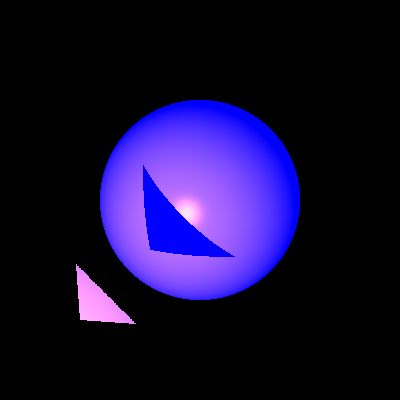
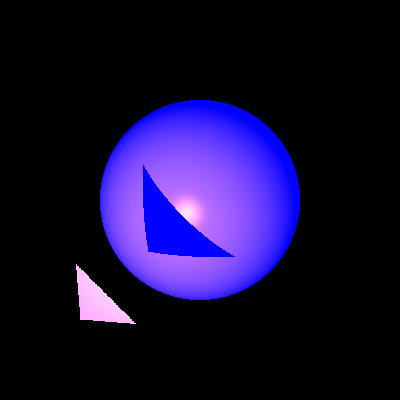
7.01.NF

Changed region(s): [[0.18, 0.66, 0.33, 0.81], [0.36, 0.54, 0.39, 0.63], [0.39, 0.63, 0.45, 0.66]]

diff --git a/unitTests/renderer/ShadowTests.java b/unitTests/renderer/ShadowTests.java
@@ -13,94 +13,94 @@ import scene.Scene;
 /** Testing basic shadows
  * @author Dan */
 public class ShadowTests {
-   private Intersectable sphere     = new Sphere(new Point(0, 0, -200), 60d)                                         //
-      .setEmission(new Color(BLUE))                                                                                  //
-      .setMaterial(new Material().setKd(0.5).setKs(0.5).setShininess(30));
-   private Material      trMaterial = new Material().setKd(0.5).setKs(0.5).setShininess(30);
+    private Intersectable sphere     = new Sphere(new Point(0, 0, -200), 60d)                                         //
+            .setEmission(new Color(BLUE))                                                                                  //
+            .setMaterial(new Material().setKd(0.5).setKs(0.5).setShininess(30));
+    private Material      trMaterial = new Material().setKd(0.5).setKs(0.5).setShininess(30);
 
-   private Scene         scene      = new Scene("Test scene");
-   private Camera        camera     = new Camera(new Point(0, 0, 1000), new Vector(0, 0, -1), new Vector(0, 1, 0))   //
-      .setVPSize(200, 200).setVPDistance(1000)                                                                       //
-      .setRayTracer(new RayTracerBasic(scene));
+    private Scene         scene      = new Scene("Test scene");
+    private Camera        camera     = new Camera(new Point(0, 0, 1000), new Vector(0, 0, -1), new Vector(0, 1, 0))   //
+            .setVPSize(200, 200).setVPDistance(1000)                                                                       //
+            .setRayTracer(new RayTracerBasic(scene));
 
-   /** Helper function for the tests in this module */
-   void sphereTriangleHelper(String pictName, Triangle triangle, Point spotLocation) {
-      scene.geometries.add(sphere, triangle.setEmission(new Color(BLUE)).setMaterial(trMaterial));
-      scene.lights.add( //
-                       new SpotLight(new Color(400, 240, 0), spotLocation, new Vector(1, 1, -3)) //
-                          .setKl(1E-5).setKq(1.5E-7));
-      camera.setImageWriter(new ImageWriter(pictName, 400, 400)) //
-         .renderImage() //
-         .writeToImage();
-   }
+    /** Helper function for the tests in this module */
+    void sphereTriangleHelper(String pictName, Triangle triangle, Point spotLocation) {
+        scene.geometries.add(sphere, triangle.setEmission(new Color(BLUE)).setMaterial(trMaterial));
+        scene.lights.add( //
+                new SpotLight(new Color(400, 240, 0), spotLocation, new Vector(1, 1, -3)) //
+                        .setKl(1E-5).setKq(1.5E-7));
+        camera.setImageWriter(new ImageWriter(pictName, 400, 400)) //
+                .renderImage() //
+                .writeToImage();
+    }
 
-   /** Produce a picture of a sphere and triangle with point light and shade */
-   @Test
-   public void sphereTriangleInitial() {
-      sphereTriangleHelper("shadowSphereTriangleInitial", //
-                           new Triangle(new Point(-70, -40, 0), new Point(-40, -70, 0), new Point(-68, -68, -4)), //
-                           new Point(-100, -100, 200));
-   }
+    /** Produce a picture of a sphere and triangle with point light and shade */
+    @Test
+    public void sphereTriangleInitial() {
+        sphereTriangleHelper("shadowSphereTriangleInitial", //
+                new Triangle(new Point(-70, -40, 0), new Point(-40, -70, 0), new Point(-68, -68, -4)), //
+                new Point(-100, -100, 200));
+    }
 
-   /**
-	 * Sphere-Triangle shading - move triangle up-right
-	 */
-	@Test
-	public void sphereTriangleMove1() {
-		sphereTriangleHelper("shadowSphereTriangleMove2", //
-				new Triangle(new Point(-62, -32, 0), new Point(-32, -62, 0), new Point(-60, -60, 0)), //
-				new Point(-100, -100, 200));
-	}
+    /**
+     * Sphere-Triangle shading - move triangle up-right
+     */
+    @Test
+    public void sphereTriangleMove1() {
+        sphereTriangleHelper("shadowSphereTriangleMove2", //
+                new Triangle(new Point(-62, -32, 0), new Point(-32, -62, 0), new Point(-60, -60, -4)), //
+        new Point(-100, -100, 200));
+    }
 
-   /**
-	 * Sphere-Triangle shading - move triangle upper-righter
-	 */
-	@Test
-	public void sphereTriangleMove2() {
-		sphereTriangleHelper("shadowSphereTriangleMove1", //
-		      new Triangle(new Point(-49, -19, 0), new Point(-19, -49, 0), new Point(-47, -47, -4)), //
-				new Point(-100, -100, 200));
-	}
+    /**
+     * Sphere-Triangle shading - move triangle upper-righter
+     */
+    @Test
+    public void sphereTriangleMove2() {
+        sphereTriangleHelper("shadowSphereTriangleMove1", //
+                new Triangle(new Point(-49, -19, 0), new Point(-19, -49, 0), new Point(-47, -47, -4)), //
+        new Point(-100, -100, 200));
+    }
 
-   /** Sphere-Triangle shading - move spot closer */
-   @Test
-   public void sphereTriangleSpot1() {
-      sphereTriangleHelper("shadowSphereTriangleSpot1", //
-                           new Triangle(new Point(-70, -40, 0), new Point(-40, -70, 0), new Point(-68, -68, -4)), //
-                           new Point(-88, -88, 120));
-   }
+    /** Sphere-Triangle shading - move spot closer */
+    @Test
+    public void sphereTriangleSpot1() {
+        sphereTriangleHelper("shadowSphereTriangleSpot1", //
+                new Triangle(new Point(-70, -40, 0), new Point(-40, -70, 0), new Point(-68, -68, -4)), //
+                new Point(-87, -87, 115));
+    }
 
-   /** Sphere-Triangle shading - move spot even more close */
-   @Test
-   public void sphereTriangleSpot2() {
-      sphereTriangleHelper("shadowSphereTriangleSpot2", //
-                           new Triangle(new Point(-70, -40, 0), new Point(-40, -70, 0), new Point(-68, -68, -4)), //
-                           new Point(-76, -76, 70));
-   }
+    /** Sphere-Triangle shading - move spot even more close */
+    @Test
+    public void sphereTriangleSpot2() {
+        sphereTriangleHelper("shadowSphereTriangleSpot2", //
+                new Triangle(new Point(-70, -40, 0), new Point(-40, -70, 0), new Point(-68, -68, -4)), //
+                new Point(-75.8, -75.8, 69));
+    }
 
-   /** Produce a picture of a two triangles lighted by a spot light with a Sphere
-    * producing a shading */
-   @Test
-   public void trianglesSphere() {
-      scene.setAmbientLight(new AmbientLight(new Color(WHITE), 0.15));
+    /** Produce a picture of a two triangles lighted by a spot light with a Sphere
+     * producing a shading */
+    @Test
+    public void trianglesSphere() {
+        scene.setAmbientLight(new AmbientLight(new Color(WHITE), 0.15));
 
-      scene.geometries.add( //
-                           new Triangle(new Point(-150, -150, -115), new Point(150, -150, -135),
-                                        new Point(75, 75, -150)) //
-                              .setMaterial(new Material().setKs(0.8).setShininess(60)), //
-                           new Triangle(new Point(-150, -150, -115), new Point(-70, 70, -140), new Point(75, 75, -150)) //
-                              .setMaterial(new Material().setKs(0.8).setShininess(60)), //
-                           new Sphere(new Point(0, 0, -11), 30d) //
-                              .setEmission(new Color(BLUE)) //
-                              .setMaterial(new Material().setKd(0.5).setKs(0.5).setShininess(30)) //
-      );
-      scene.lights.add( //
-                       new SpotLight(new Color(700, 400, 400), new Point(40, 40, 115), new Vector(-1, -1, -4)) //
-                          .setKl(4E-4).setKq(2E-5));
+        scene.geometries.add( //
+                new Triangle(new Point(-150, -150, -115), new Point(150, -150, -135),
+                        new Point(75, 75, -150)) //
+                        .setMaterial(new Material().setKs(0.8).setShininess(60)), //
+                new Triangle(new Point(-150, -150, -115), new Point(-70, 70, -140), new Point(75, 75, -150)) //
+                        .setMaterial(new Material().setKs(0.8).setShininess(60)), //
+                new Sphere(new Point(0, 0, -11), 30d) //
+                        .setEmission(new Color(BLUE)) //
+                        .setMaterial(new Material().setKd(0.5).setKs(0.5).setShininess(30)) //
+        );
+        scene.lights.add( //
+                new SpotLight(new Color(700, 400, 400), new Point(40, 40, 115), new Vector(-1, -1, -4)) //
+                        .setKl(4E-4).setKq(2E-5));
 
-      camera.setImageWriter(new ImageWriter("shadowTrianglesSphere", 600, 600)) //
-         .renderImage() //
-         .writeToImage();
-   }
+        camera.setImageWriter(new ImageWriter("shadowTrianglesSphere", 600, 600)) //
+                .renderImage() //
+                .writeToImage();
+    }
 
 }

diff --git a/src/renderer/RayTracerBasic.java b/src/renderer/RayTracerBasic.java
@@ -18,49 +18,8 @@ import java.util.List;
  * Shira Ben Shimol (326065976)
  */
 public class RayTracerBasic extends RayTracerBase{
-    //private static final int MAX_CALC_COLOR_LEVEL = 10;
     private static final double DELTA = 0.1;
 
-    /* private boolean unshaded(GeoPoint gp, Vector l, Vector n, LightSource lightSource, double nv) {
-        Vector lightDirection = l.scale(-1); //vector from the point to the light source
-
-        Ray lightRay = new Ray(gp.point, lightDirection,n);
-
-        double lightDistance = lightSource.getDistance(gp.point);
-        //finding only points that are closer to the point than the light
-        List<GeoPoint> intersections = _scene.geometries.findGeoIntsersections(lightRay);
-
-        //if there are no intersections return true (there is no shadow)
-        if (intersections == null) {
-            return true;
-        }
-
-        //for each intersection
-        for (GeoPoint intersection : intersections) {
-            //if the material is not transparent return false
-            if (intersection.geometry.getMaterial().kT == Double3.ZERO) {
-                return false;
-            }
-
-        }
-        return true;
-    }*/
-/*    private boolean unshaded(GeoPoint gp, LightSource lightSource, Vector l, Vector n, double nl) {
-        Vector lightDirection = l.scale(-1); // from point to light source
-        Vector epsVector = n.scale(nl < 0 ? DELTA : -DELTA); // move the point to the direction of the normal
-        Point point = gp.point.add(epsVector);
-        Ray lightRay = new Ray(gp.point, n, lightDirection); // ray to check shading
-        var intersections = _scene.getGeometries().findGeoIntersections(lightRay);
-        if (intersections == null)
-            return true;
-        double lightDistance = lightSource.getDistance(gp.point);
-        for (GeoPoint geoPoint : intersections) {
-            if (alignZero(geoPoint.point.distance(gp.point) - lightDistance) <= 0 &&
-                geoPoint.geometry.getMaterial().getKt() == Double3.ZERO)
-                    return false;
-        }
-        return true;
-     }*/
 
     /**
      * Constructs a RayTracerBasic object with the specified scene.
@@ -84,57 +43,19 @@ public class RayTracerBasic extends RayTracerBase{
         GeoPoint closestPoint = ray.findClosestGeoPoint(intersections);
         return closestPoint == null ? _scene.sceneBack : calcColor(closestPoint, ray);
 
-        /*List<GeoPoint> intersectionsPoints = this._scene.geometries.findGeoIntsersections(ray);
-        if (intersectionsPoints == null)
-            return this._scene.sceneBack;
-        GeoPoint geoPoint = ray.findClosestGeoPoint(intersectionsPoints);
-        return calcColor(geoPoint, ray);*/
-        /*List<Point> intersectionsPoints = this._scene.geometries.findIntsersections(ray);
-        if (intersectionsPoints == null)
-            return this._scene.sceneBack;
-        return calcColor(ray.findClosestPoint(intersectionsPoints));*/
     }
     private Color calcColor(GeoPoint geoPoint, Ray ray) {
-        return _scene.ambientLight.getIntensity().add(calcLocalEffects(geoPoint, ray)); //for now return the ambient light intensity
-
-/*        Color result = this._scene.ambientLight.getIntensity();  // add the ambient light to the color
-
-        result = result.add(geoPoint.geometry.getEmission());   // add emission light to the color
-
-        Vector n = geoPoint.geometry.getNormal(geoPoint.point);
-        Vector v = ray.getDir();
-        double nv = alignZero(n.dotProduct(v));
-        if (nv == 0)
-            return result;
-
-        Double3 kD = geoPoint.geometry.getMaterial().kD;    // the diffuse factor - percentage of light dispersal
-        // specular factor - the percentage of the energy that goes to direct reflection
-        Double3 kS = geoPoint.geometry.getMaterial().kS;
-        Point point = geoPoint.point;
-        int Nsh = geoPoint.geometry.getMaterial().nShininess;   // the shininess
-
-        for (LightSource lightSource:this._scene.lights) { // add diffuse and specular for each light source
-            Vector l = lightSource.getL(point);
-            double nl = alignZero(n.dotProduct(l));
-            if(nl * nv > 0) {
-                Color IL = lightSource.getIntensity(point); // get the intensity of the light source
-                Vector r = l.add(n.scale(-2 * nl)); // calculate r = l+(-2*nl*n)
-                result = result.add(
-                        IL.scale(getDiffuse(kD,nl)  // add diffuse
-                                .add(getSpecular(kS,v,r,Nsh)))); // add specular
-            }
-        }
-        return result;*/
+        return _scene.ambientLight.getIntensity().add(calcLocalEffects(geoPoint, ray));
     }
     private boolean unshaded(GeoPoint gp, LightSource lightSource, Vector l, Vector n, double nl){
-        Vector lightDirection = l.scale(-1); // from point to light source
-        Vector epsVector = n.scale(nl<0 ? DELTA : -DELTA); // move the point to the direction of the normal
+        Vector lightDirection = l.scale(-1);
+        Vector epsVector = n.scale(nl<0 ? DELTA : -DELTA);
         Point point = gp.point.add(epsVector);
-        Ray lightRay = new Ray(point, lightDirection); // ray to check shading
+        Ray lightRay = new Ray(point, lightDirection);
         var intersections = _scene.geometries.findGeoIntsersections(lightRay);
         if (intersections == null) return true;
         double lightDistance = lightSource.getDistance(gp.point);
-        for (GeoPoint geoPoint : intersections){ //if there are points in the intersections list that are closer to the point than lightDistance, the point is shaded
+        for (GeoPoint geoPoint : intersections){
             if (alignZero(geoPoint.point.distance(gp.point) - lightDistance) <= 0) return false;
         }
         return true;
@@ -149,7 +70,7 @@ public class RayTracerBasic extends RayTracerBase{
         for (LightSource lightSource : _scene.lights) {
             Vector l = lightSource.getL(gp.point);
             double nl = alignZero(n.dotProduct(l));
-            if (nl * nv > 0) { // sign(nl) == sing(nv)
+            if (nl * nv > 0) {
                 if (unshaded(gp, lightSource, l, n,nl)) {
                     Color iL = lightSource.getIntensity(gp.point);
                     color = color.add(iL.scale(calcDiffusive(material, nl)),

diff --git a/unitTests/renderer/RenderTests.java b/unitTests/renderer/RenderTests.java
@@ -8,9 +8,7 @@ import geometries.Sphere;
 import geometries.Triangle;
 import lighting.AmbientLight;
 import primitives.*;
-import primitives.Double3.*;
 
-import renderer.*;
 import scene.Scene;
 
 /** Test rendering a basic image
